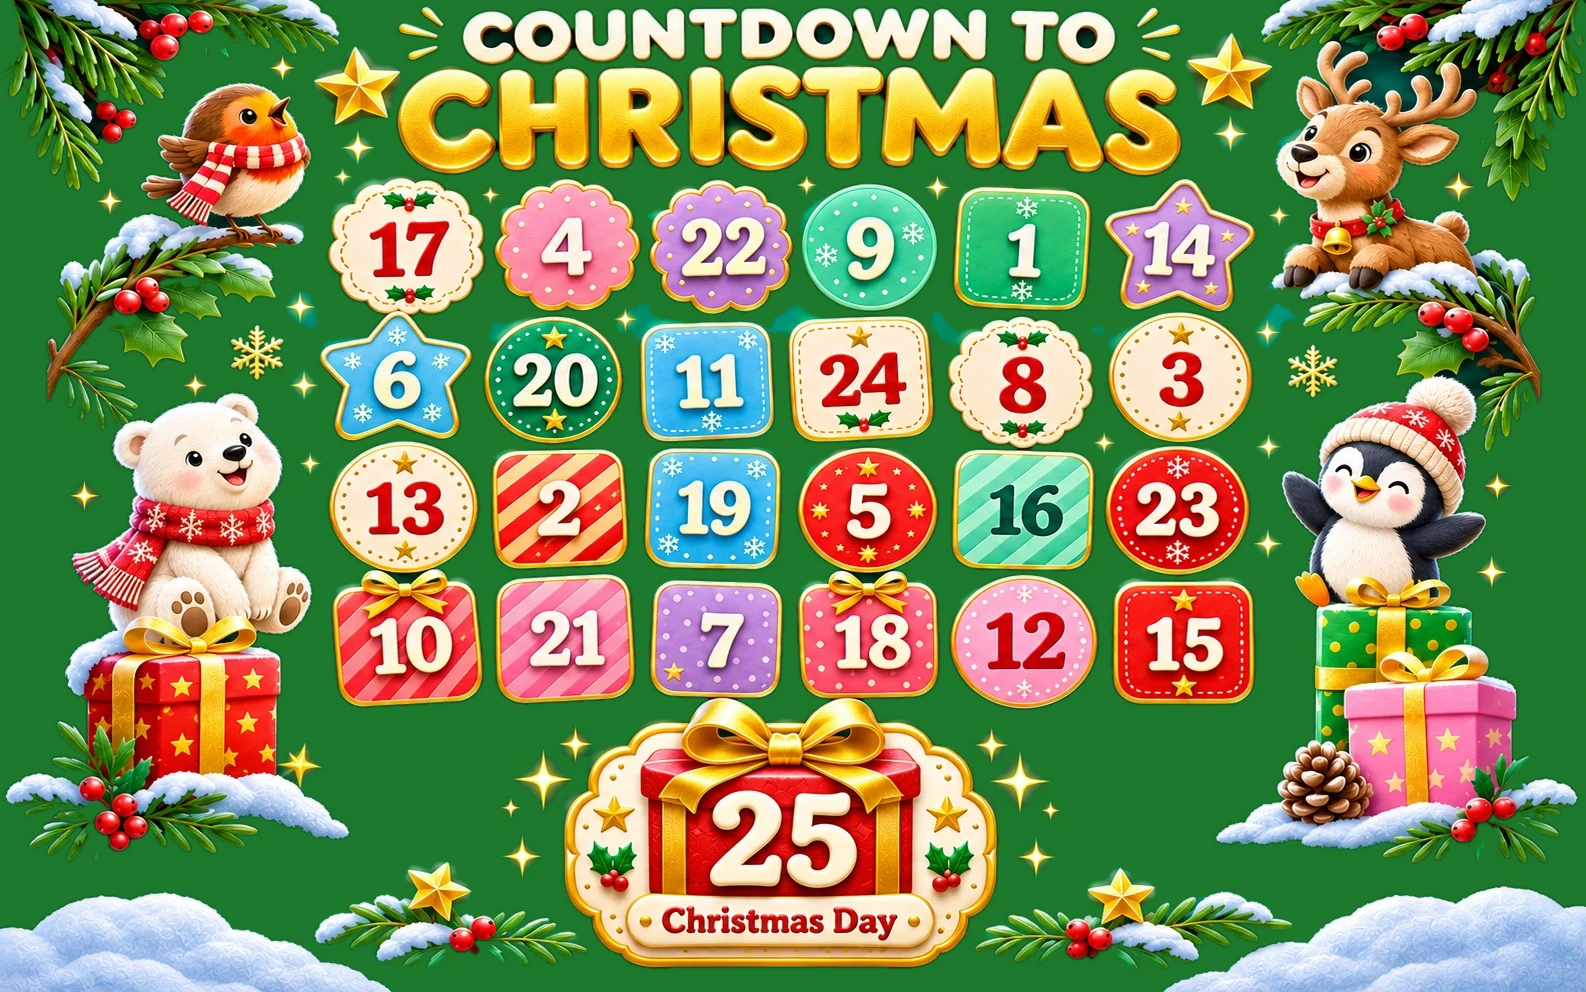
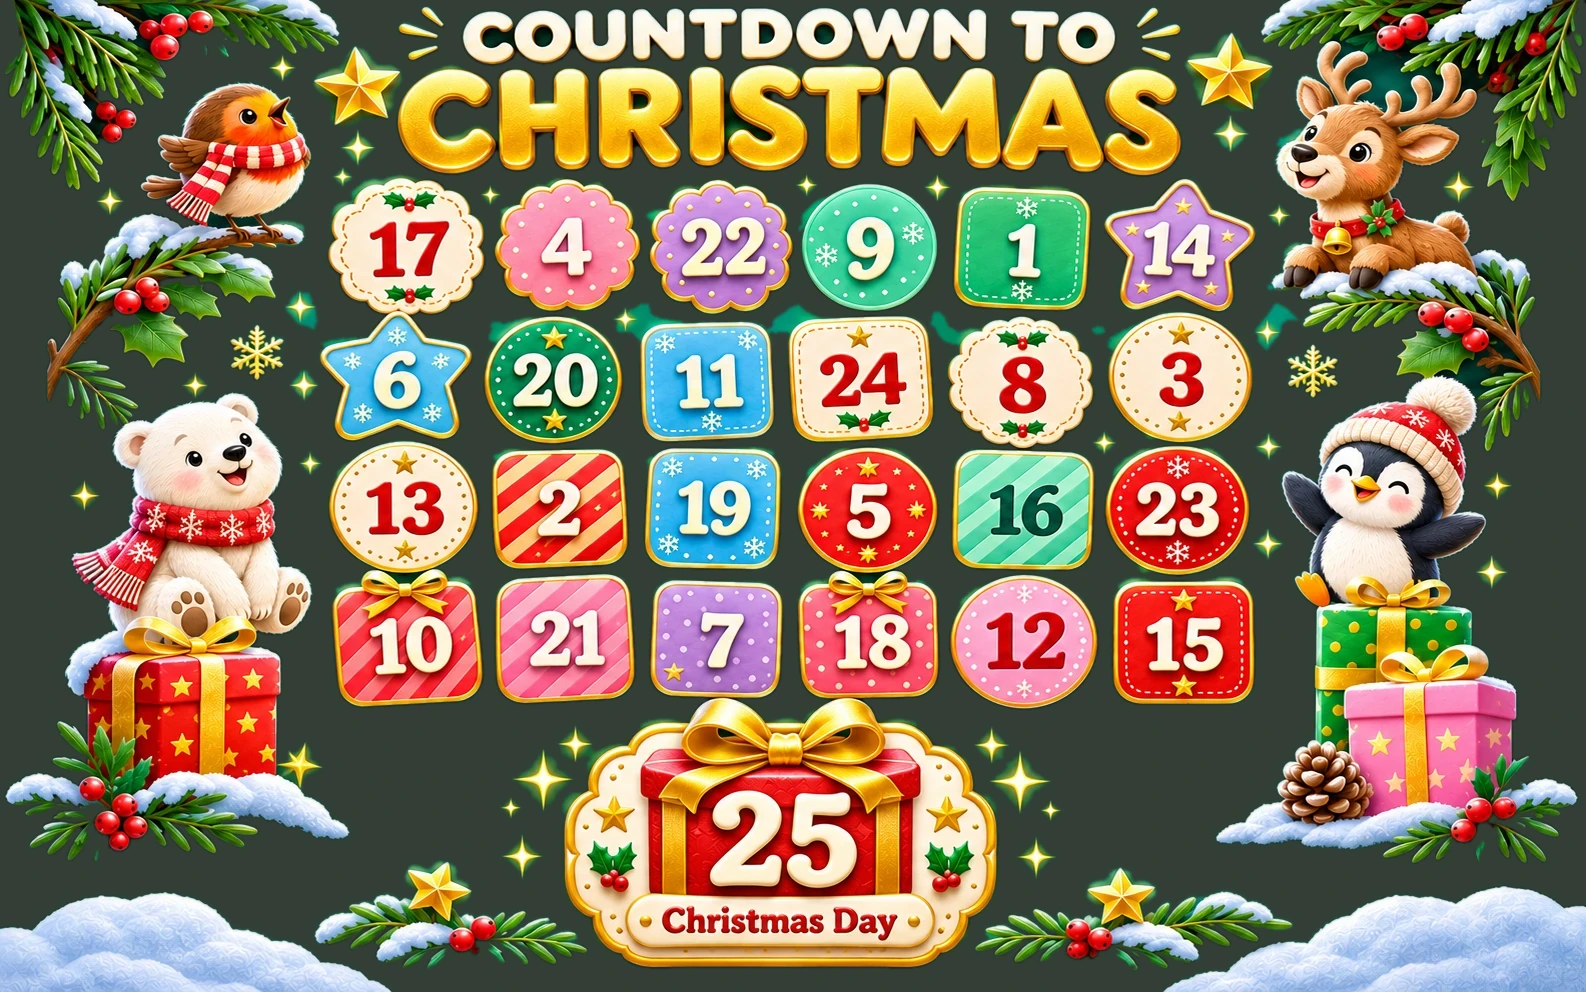
Spruce background colour

diff --git a/index.html b/index.html
@@ -320,8 +320,8 @@ button, .btn, .wc, .key, .mc, .swatch, .hot { touch-action: manipulation; -webki
 }
 
 /* ---------- Page background: same green as the calendar picture ---------- */
-html { background: #1E792C; }
-body { background: #1E792C; color: #F4FFF4; padding-block: 36px 56px; }
+html { background: #343F36; }
+body { background: #343F36; color: #F4FFF4; padding-block: 36px 56px; }
 .wrap { gap: 44px; }
 .brand { display: flex; justify-content: center; margin-top: 6px; }
 .brand img { width: min(380px, 78%); height: auto; display: block; }
